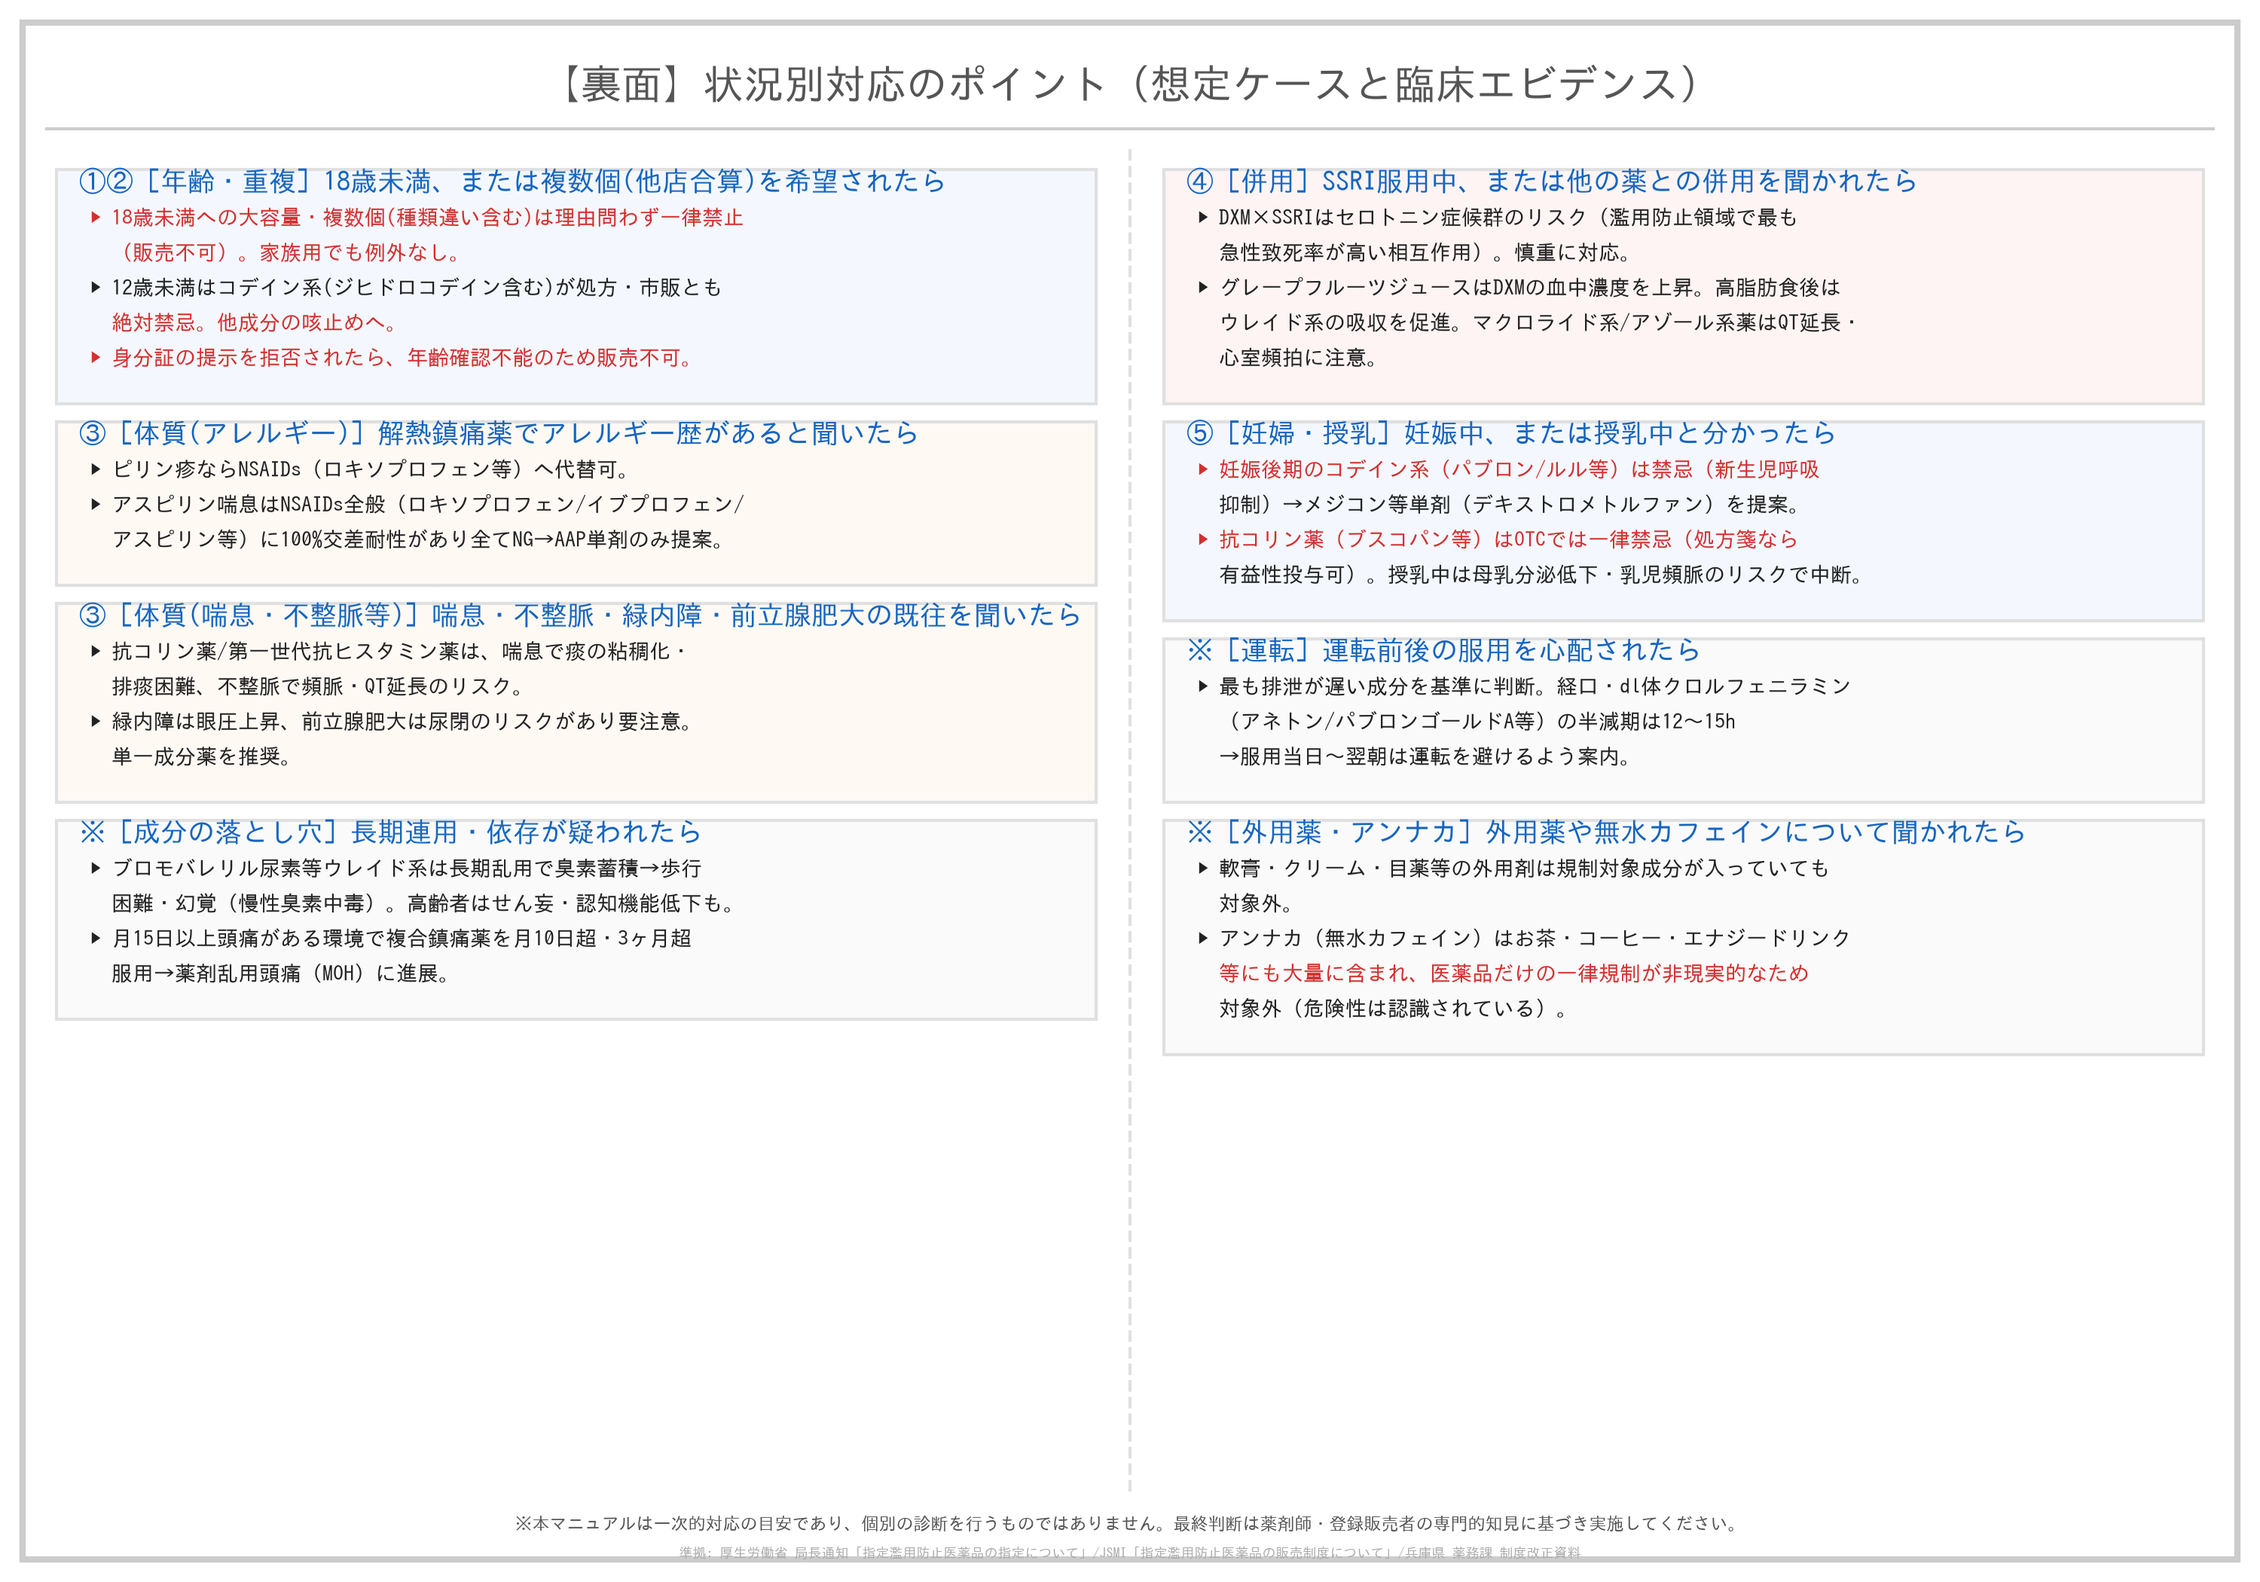
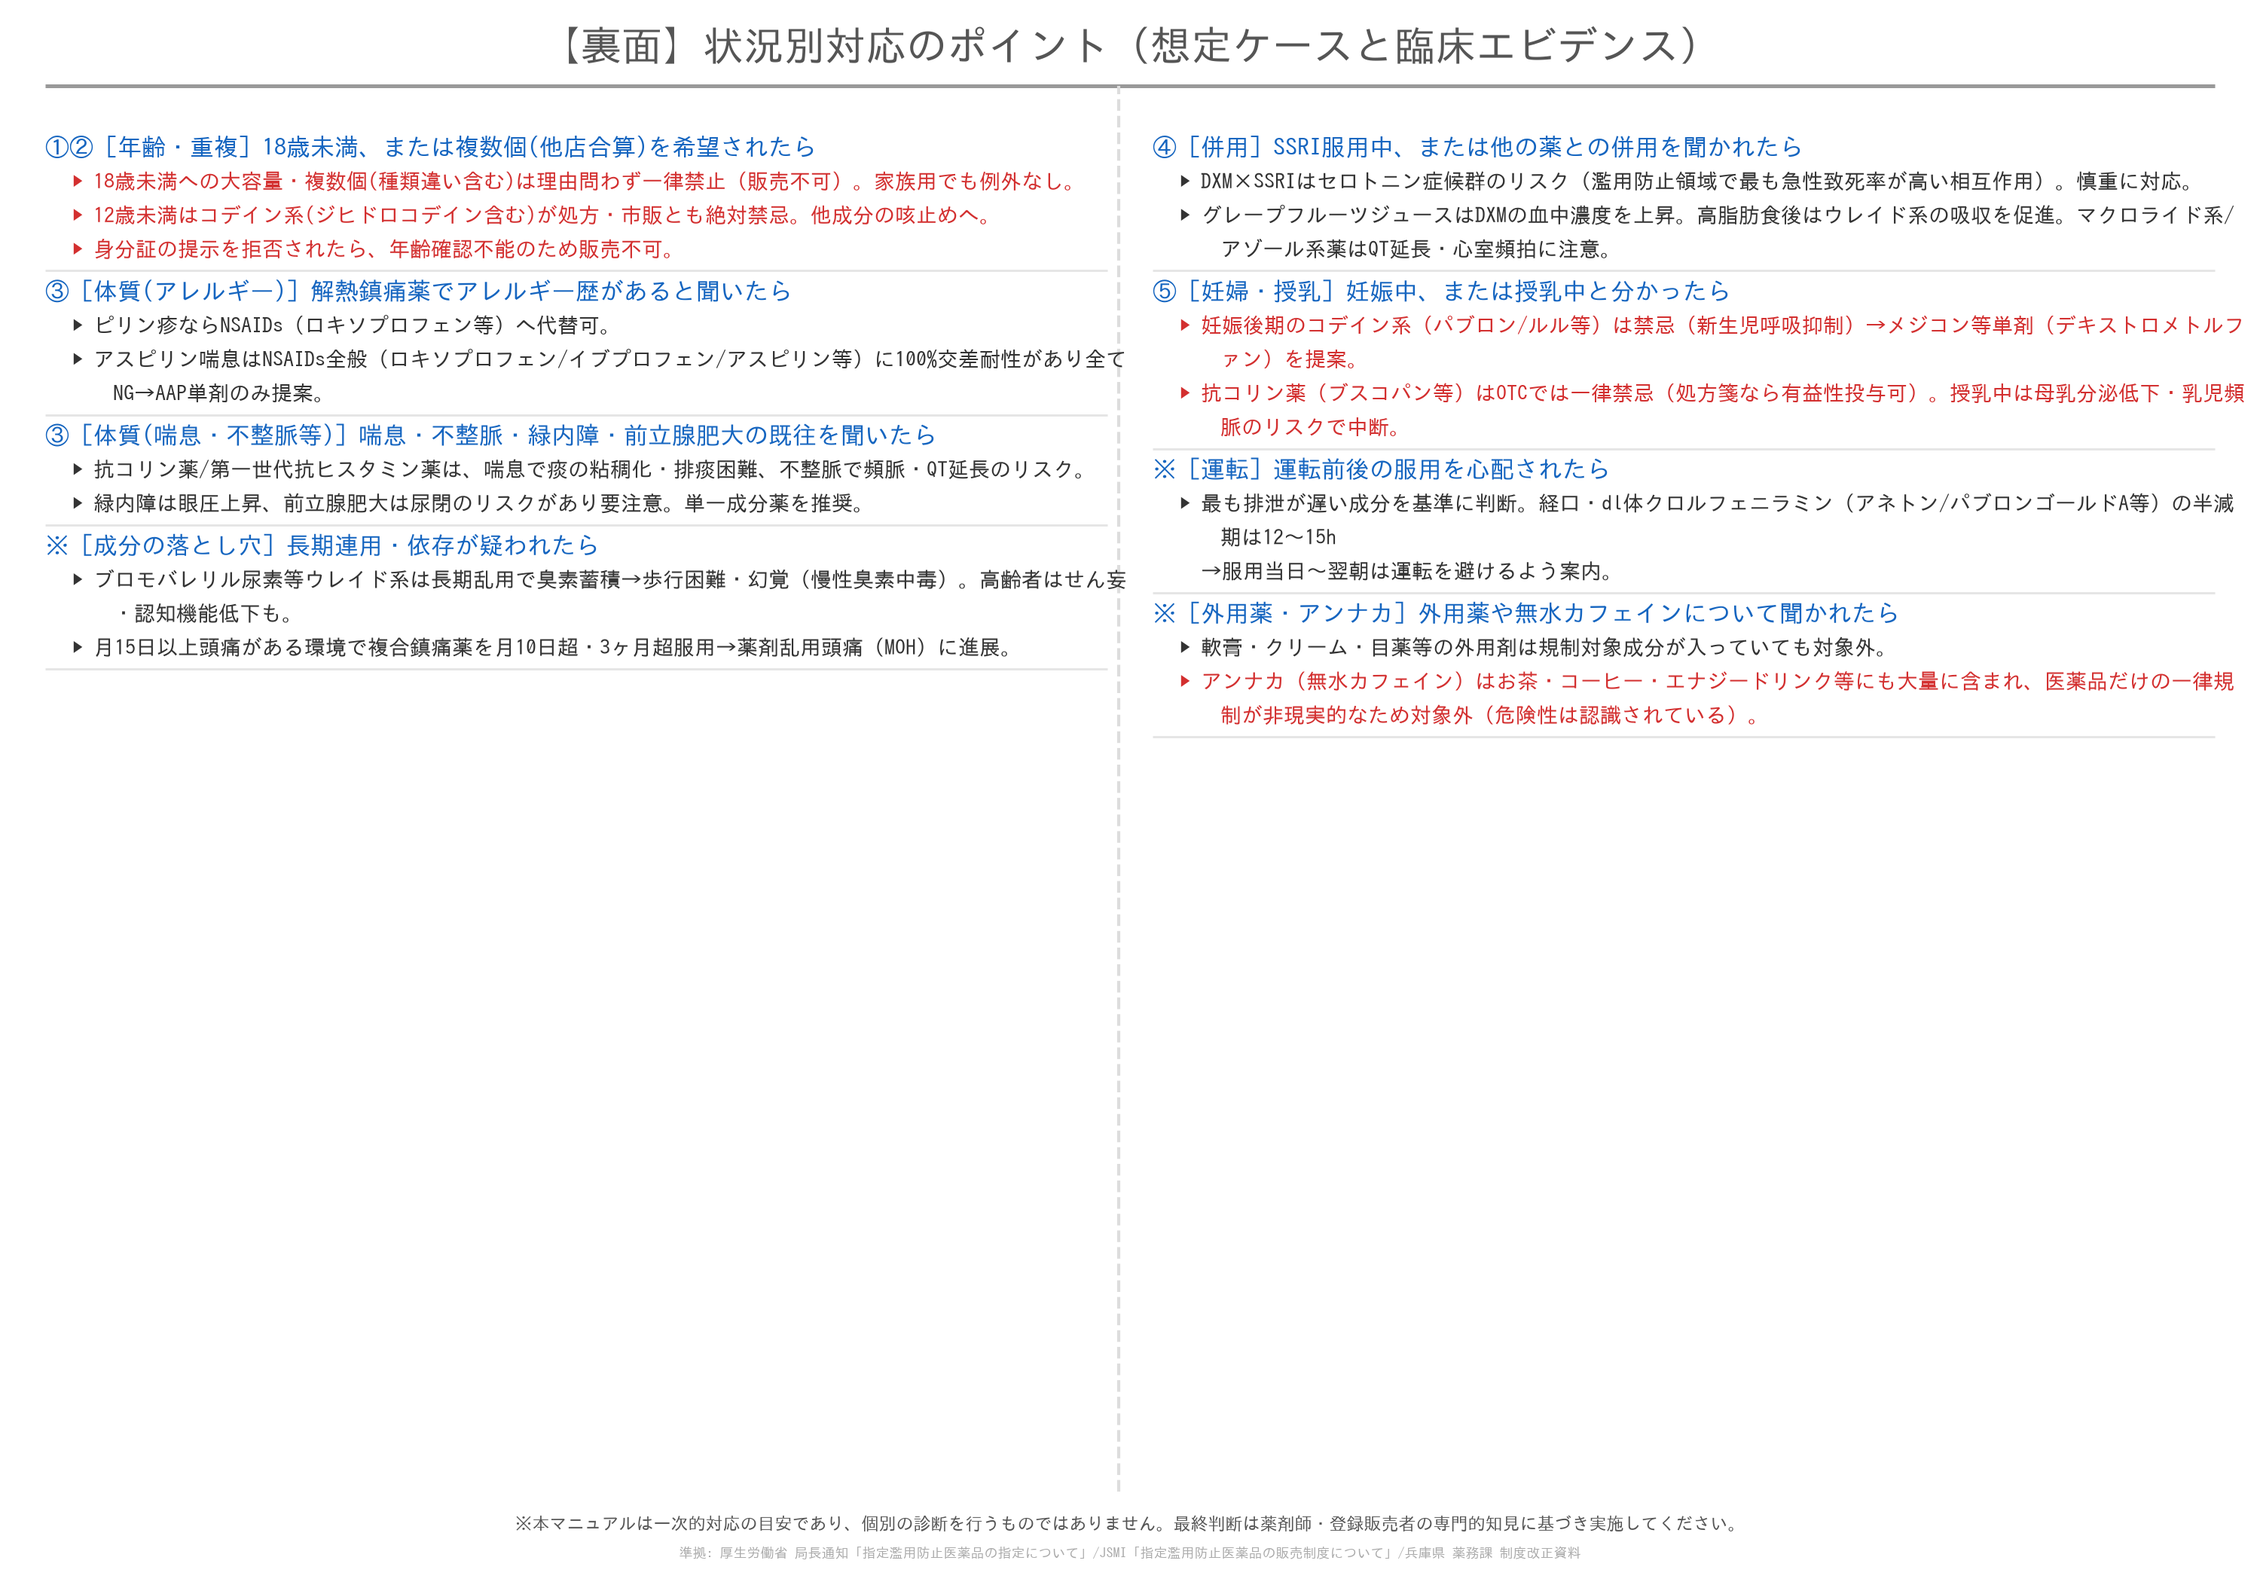
裏面をタイトル+羅列形式に変更し、縦スペースを節約
・色付きボックス/背景を廃止し、タイトルと箇条書きだけのシンプルな
  構成に変更(ケース間は薄い罫線で区切り)
・タイトルが短い場合は1点目の内容をタイトルの右側に続けて表示し、
  縦スペースを節約(動的な文字幅測定で自動判定)
・自動折り返し関数を追加し、長い文章が列幅からはみ出す問題を解消

diff --git a/vpc_v11_back.py b/vpc_v11_back.py
@@ -11,104 +11,137 @@ ax.set_position([0, 0, 1, 1])  # savefigでbbox_inches="tight"を使わず全面
 ax.set_xlim(0, LOGICAL_W)
 ax.set_ylim(0, LOGICAL_H)
 ax.axis("off")
+fig.canvas.draw()  # テキスト幅計測のため、先に一度描画してレンダラーを確保
 
 BLUE, RED, ORANGE, GREEN, GRAY = "#1565c0", "#d32f2f", "#e65100", "#2e7d32", "#555555"
 
+
+def text_width(text, fontsize, weight="normal"):
+    t = ax.text(0, -100, text, fontsize=fontsize, fontweight=weight, ha="left", va="center")
+    fig.canvas.draw()
+    bbox = t.get_window_extent(renderer=fig.canvas.get_renderer())
+    inv = ax.transData.inverted()
+    (x0, _), (x1, _) = inv.transform([[bbox.x0, bbox.y0], [bbox.x1, bbox.y1]])
+    t.remove()
+    return x1 - x0
+
+
 # --- 全体枠とタイトル ---
-ax.add_patch(patches.Rectangle((1.0, 1.0), 98.0, 68.0, fill=False, edgecolor="#cccccc", linewidth=2.0))
-ax.text(LOGICAL_W / 2, 66.3, "【裏面】状況別対応のポイント（想定ケースと臨床エビデンス）", fontsize=13, fontweight="bold", ha="center", va="center", color=GRAY)
-ax.hlines(64.3, 2.0, 98.0, colors="#cccccc", linewidth=1.0)
+ax.text(LOGICAL_W / 2, 68.0, "【裏面】状況別対応のポイント（想定ケースと臨床エビデンス）", fontsize=13, fontweight="bold", ha="center", va="center", color=GRAY)
+ax.hlines(66.2, 2.0, 98.0, colors="#999999", linewidth=1.2)
 
-COL1_X, COL2_X = 2.5, 51.5
-COL_W = 46.0
-
-
-def draw_case(ax, x, y, q_num, category, condition, action_lines, bg_color):
-    n_lines = len(action_lines)
-    box_h = 2.6 + n_lines * 1.55
-    ax.add_patch(patches.Rectangle((x, y - box_h), COL_W, box_h, facecolor=bg_color, edgecolor="#e0e0e0", linewidth=1.0))
-    ax.text(x + 1.0, y - 0.5, f"{q_num} [{category}] {condition}", fontsize=8.6, fontweight="bold", ha="left", va="center", color=BLUE)
-    text_y = y - 2.1
-    for line in action_lines:
-        is_alert = ("禁忌" in line) or ("一律" in line) or ("不可" in line)
-        ax.text(x + 1.5, text_y, line, fontsize=6.8, ha="left", va="center",
-                color=RED if is_alert else "#222222", fontweight="bold" if is_alert else "normal")
-        text_y -= 1.55
-    return y - box_h - 0.8
+COL1_X, COL2_X = 2.0, 51.0
+COL_W = 47.0
+TITLE_FS, BODY_FS, LINE_H = 7.6, 6.8, 1.5
 
 
-current_y_col1 = 62.5
-current_y_col2 = 62.5
+def wrap_to_width(text, fontsize, max_width):
+    """1文字ずつ幅を測りながら、max_widthに収まるように行分割する"""
+    lines, cur = [], ""
+    for ch in text:
+        trial = cur + ch
+        if cur and text_width(trial, fontsize) > max_width:
+            lines.append(cur)
+            cur = ch
+        else:
+            cur = trial
+    if cur:
+        lines.append(cur)
+    return lines
+
+
+def draw_case(ax, x, y, q_num, category, condition, action_lines):
+    """タイトルの右に1点目の内容を続け、2点目以降はタイトル下に列挙。縦スペースを節約する。"""
+    header = f"{q_num}［{category}］{condition}"
+    ax.text(x, y, header, fontsize=TITLE_FS, fontweight="bold", ha="left", va="center", color=BLUE)
+    header_w = text_width(header, TITLE_FS, "bold")
+    remaining_w = COL_W - header_w - 1.5
+
+    bullets = list(action_lines)
+    first_on_same_line = False
+    if bullets:
+        first_w = text_width(bullets[0], BODY_FS)
+        if remaining_w >= first_w + 1.0 and remaining_w >= 15.0:
+            first_on_same_line = True
+
+    if first_on_same_line:
+        first = bullets.pop(0)
+        is_alert = ("禁忌" in first) or ("一律" in first) or ("不可" in first)
+        ax.text(x + header_w + 1.5, y, first, fontsize=BODY_FS, ha="left", va="center",
+                color=RED if is_alert else "#333333", fontweight="bold" if is_alert else "normal")
+    text_y = y - LINE_H
+
+    for bullet in bullets:
+        is_alert = ("禁忌" in bullet) or ("一律" in bullet) or ("不可" in bullet)
+        color = RED if is_alert else "#333333"
+        weight = "bold" if is_alert else "normal"
+        wrapped = wrap_to_width(bullet, BODY_FS, COL_W - 1.2)
+        for wi, wline in enumerate(wrapped):
+            indent = x + 1.2 if wi == 0 else x + 3.0
+            ax.text(indent, text_y, wline, fontsize=BODY_FS, ha="left", va="center", color=color, fontweight=weight)
+            text_y -= LINE_H
+
+    sep_y = text_y + LINE_H * 0.35
+    ax.hlines(sep_y, x, x + COL_W, colors="#e5e5e5", linewidth=0.7)
+    return sep_y - 0.9
+
+
+current_y_col1 = 63.5
+current_y_col2 = 63.5
 
 # --- 左カラム（年齢・重複・体質・成分の落とし穴） ---
 current_y_col1 = draw_case(ax, COL1_X, current_y_col1, "①②", "年齢・重複",
     "18歳未満、または複数個(他店合算)を希望されたら", [
-    "▶ 18歳未満への大容量・複数個(種類違い含む)は理由問わず一律禁止",
-    "  （販売不可）。家族用でも例外なし。",
-    "▶ 12歳未満はコデイン系(ジヒドロコデイン含む)が処方・市販とも",
-    "  絶対禁忌。他成分の咳止めへ。",
+    "▶ 18歳未満への大容量・複数個(種類違い含む)は理由問わず一律禁止（販売不可）。家族用でも例外なし。",
+    "▶ 12歳未満はコデイン系(ジヒドロコデイン含む)が処方・市販とも絶対禁忌。他成分の咳止めへ。",
     "▶ 身分証の提示を拒否されたら、年齢確認不能のため販売不可。",
-], "#f4f8fe")
+])
 
 current_y_col1 = draw_case(ax, COL1_X, current_y_col1, "③", "体質(アレルギー)",
     "解熱鎮痛薬でアレルギー歴があると聞いたら", [
     "▶ ピリン疹ならNSAIDs（ロキソプロフェン等）へ代替可。",
-    "▶ アスピリン喘息はNSAIDs全般（ロキソプロフェン/イブプロフェン/",
-    "  アスピリン等）に100%交差耐性があり全てNG→AAP単剤のみ提案。",
-], "#fff9f4")
+    "▶ アスピリン喘息はNSAIDs全般（ロキソプロフェン/イブプロフェン/アスピリン等）に100%交差耐性があり全てNG→AAP単剤のみ提案。",
+])
 
 current_y_col1 = draw_case(ax, COL1_X, current_y_col1, "③", "体質(喘息・不整脈等)",
     "喘息・不整脈・緑内障・前立腺肥大の既往を聞いたら", [
-    "▶ 抗コリン薬/第一世代抗ヒスタミン薬は、喘息で痰の粘稠化・",
-    "  排痰困難、不整脈で頻脈・QT延長のリスク。",
-    "▶ 緑内障は眼圧上昇、前立腺肥大は尿閉のリスクがあり要注意。",
-    "  単一成分薬を推奨。",
-], "#fff9f4")
+    "▶ 抗コリン薬/第一世代抗ヒスタミン薬は、喘息で痰の粘稠化・排痰困難、不整脈で頻脈・QT延長のリスク。",
+    "▶ 緑内障は眼圧上昇、前立腺肥大は尿閉のリスクがあり要注意。単一成分薬を推奨。",
+])
 
 current_y_col1 = draw_case(ax, COL1_X, current_y_col1, "※", "成分の落とし穴",
     "長期連用・依存が疑われたら", [
-    "▶ ブロモバレリル尿素等ウレイド系は長期乱用で臭素蓄積→歩行",
-    "  困難・幻覚（慢性臭素中毒）。高齢者はせん妄・認知機能低下も。",
-    "▶ 月15日以上頭痛がある環境で複合鎮痛薬を月10日超・3ヶ月超",
-    "  服用→薬剤乱用頭痛（MOH）に進展。",
-], "#fafafa")
+    "▶ ブロモバレリル尿素等ウレイド系は長期乱用で臭素蓄積→歩行困難・幻覚（慢性臭素中毒）。高齢者はせん妄・認知機能低下も。",
+    "▶ 月15日以上頭痛がある環境で複合鎮痛薬を月10日超・3ヶ月超服用→薬剤乱用頭痛（MOH）に進展。",
+])
 
 # --- 右カラム（併用・妊婦授乳・その他） ---
 current_y_col2 = draw_case(ax, COL2_X, current_y_col2, "④", "併用",
     "SSRI服用中、または他の薬との併用を聞かれたら", [
-    "▶ DXM×SSRIはセロトニン症候群のリスク（濫用防止領域で最も",
-    "  急性致死率が高い相互作用）。慎重に対応。",
-    "▶ グレープフルーツジュースはDXMの血中濃度を上昇。高脂肪食後は",
-    "  ウレイド系の吸収を促進。マクロライド系/アゾール系薬はQT延長・",
-    "  心室頻拍に注意。",
-], "#fef4f4")
+    "▶ DXM×SSRIはセロトニン症候群のリスク（濫用防止領域で最も急性致死率が高い相互作用）。慎重に対応。",
+    "▶ グレープフルーツジュースはDXMの血中濃度を上昇。高脂肪食後はウレイド系の吸収を促進。マクロライド系/アゾール系薬はQT延長・心室頻拍に注意。",
+])
 
 current_y_col2 = draw_case(ax, COL2_X, current_y_col2, "⑤", "妊婦・授乳",
     "妊娠中、または授乳中と分かったら", [
-    "▶ 妊娠後期のコデイン系（パブロン/ルル等）は禁忌（新生児呼吸",
-    "  抑制）→メジコン等単剤（デキストロメトルファン）を提案。",
-    "▶ 抗コリン薬（ブスコパン等）はOTCでは一律禁忌（処方箋なら",
-    "  有益性投与可）。授乳中は母乳分泌低下・乳児頻脈のリスクで中断。",
-], "#f4f8fe")
+    "▶ 妊娠後期のコデイン系（パブロン/ルル等）は禁忌（新生児呼吸抑制）→メジコン等単剤（デキストロメトルファン）を提案。",
+    "▶ 抗コリン薬（ブスコパン等）はOTCでは一律禁忌（処方箋なら有益性投与可）。授乳中は母乳分泌低下・乳児頻脈のリスクで中断。",
+])
 
 current_y_col2 = draw_case(ax, COL2_X, current_y_col2, "※", "運転",
     "運転前後の服用を心配されたら", [
-    "▶ 最も排泄が遅い成分を基準に判断。経口・dl体クロルフェニラミン",
-    "  （アネトン/パブロンゴールドA等）の半減期は12〜15h",
+    "▶ 最も排泄が遅い成分を基準に判断。経口・dl体クロルフェニラミン（アネトン/パブロンゴールドA等）の半減期は12〜15h",
     "  →服用当日〜翌朝は運転を避けるよう案内。",
-], "#fafafa")
+])
 
 current_y_col2 = draw_case(ax, COL2_X, current_y_col2, "※", "外用薬・アンナカ",
     "外用薬や無水カフェインについて聞かれたら", [
-    "▶ 軟膏・クリーム・目薬等の外用剤は規制対象成分が入っていても",
-    "  対象外。",
-    "▶ アンナカ（無水カフェイン）はお茶・コーヒー・エナジードリンク",
-    "  等にも大量に含まれ、医薬品だけの一律規制が非現実的なため",
-    "  対象外（危険性は認識されている）。",
-], "#fafafa")
+    "▶ 軟膏・クリーム・目薬等の外用剤は規制対象成分が入っていても対象外。",
+    "▶ アンナカ（無水カフェイン）はお茶・コーヒー・エナジードリンク等にも大量に含まれ、医薬品だけの一律規制が非現実的なため対象外（危険性は認識されている）。",
+])
 
 # --- 中央区切り線 ---
-ax.plot([50.0, 50.0], [4.0, 63.5], color="#e0e0e0", linewidth=1.0, linestyle="--")
+ax.plot([49.5, 49.5], [4.0, 66.2], color="#dddddd", linewidth=1.0, linestyle="--")
 
 # --- 下部免責・出典 ---
 ax.text(LOGICAL_W / 2, 2.6, "※本マニュアルは一次的対応の目安であり、個別の診断を行うものではありません。最終判断は薬剤師・登録販売者の専門的知見に基づき実施してください。",
